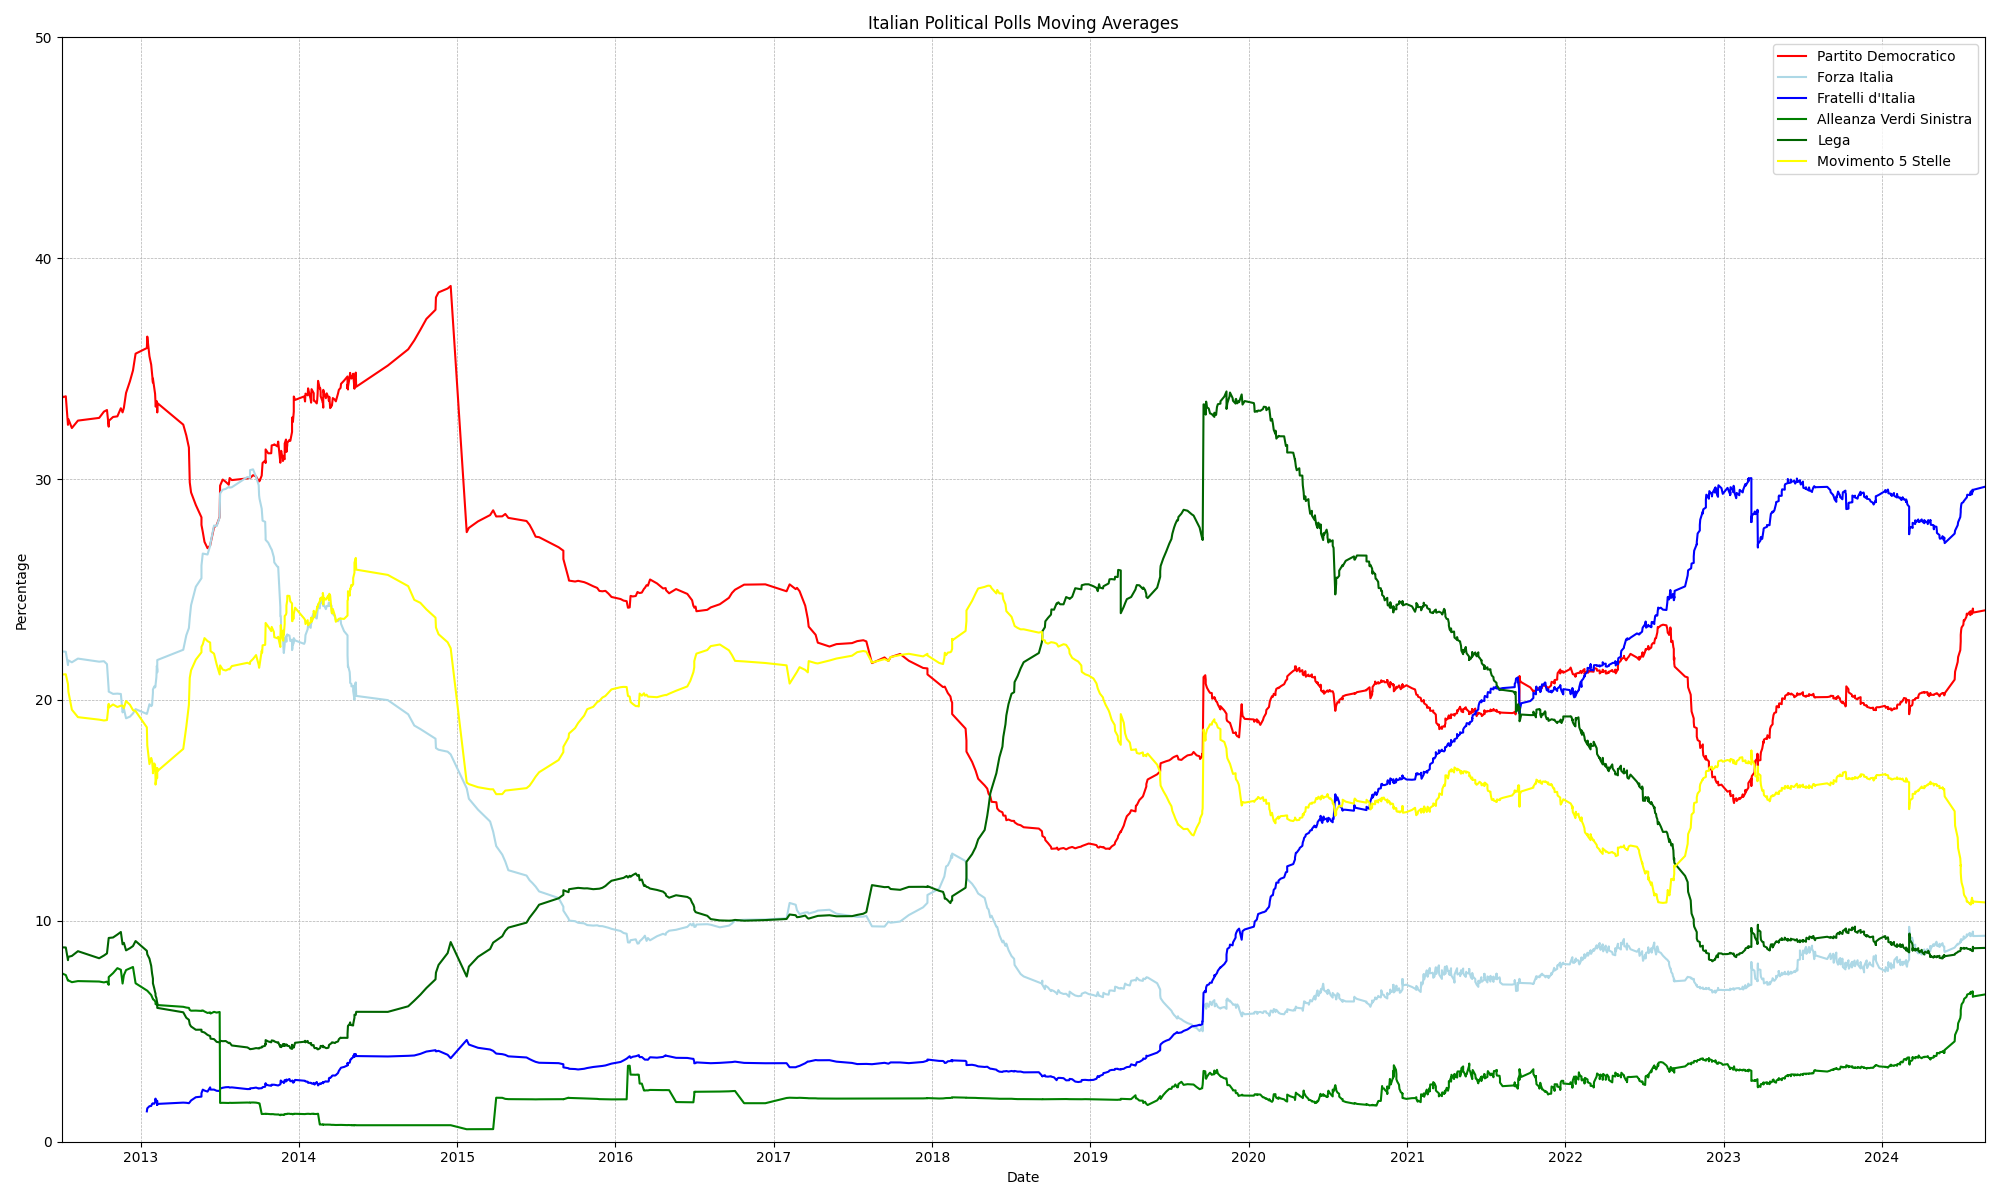
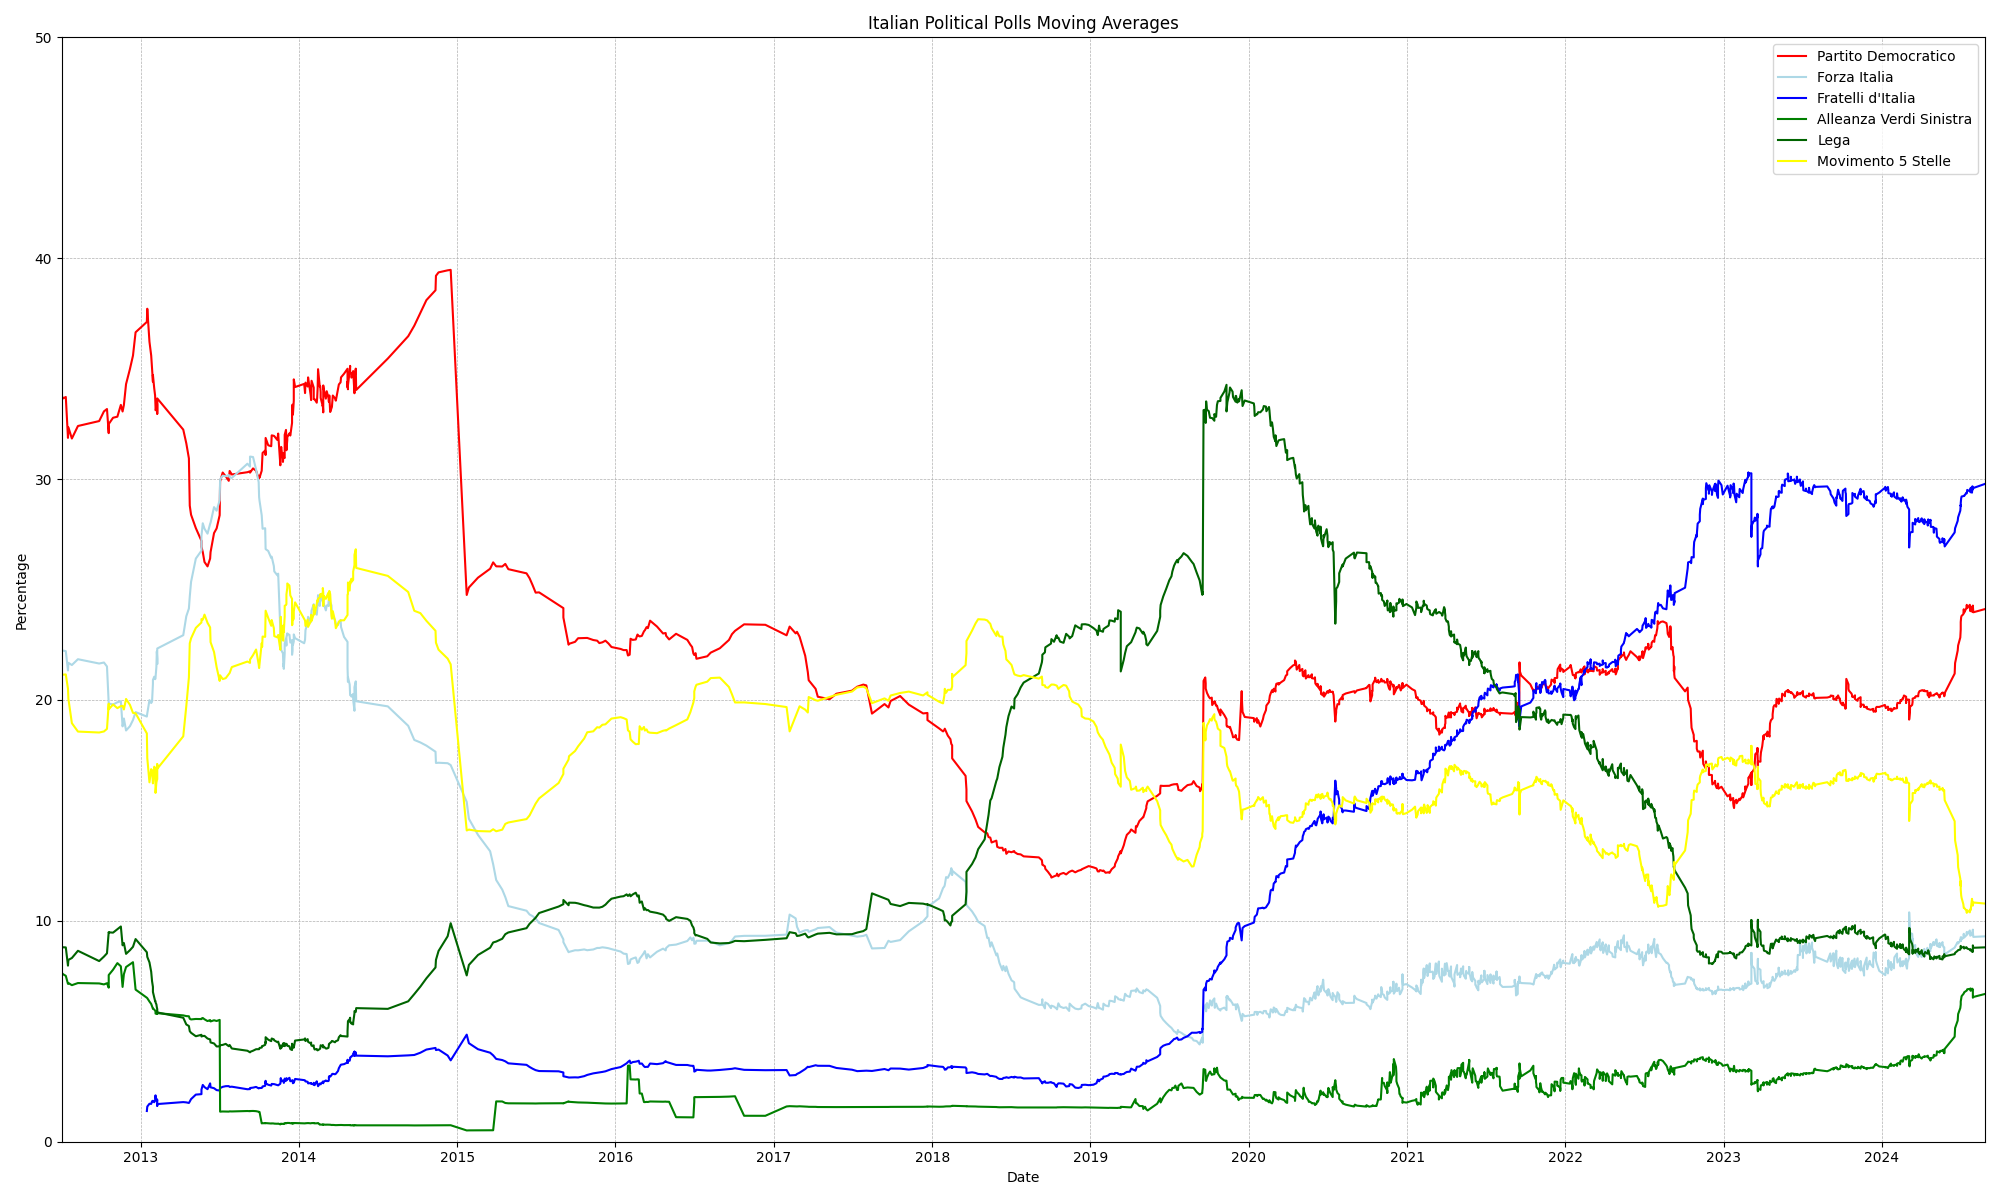
fixing the daily update

diff --git a/llm_poll_parser/daily_update.py b/llm_poll_parser/daily_update.py
@@ -1,6 +1,6 @@
 from website_getter import get_poll_data, get_prossima_pagina, start_driver, find_sondaggi_table
 from archiving_polls import handle_one_pagina
-from calculating_average import load_and_process_data, make_temporal_plot, calculate_moving_average
+from calculating_average import load_and_process_data, make_temporal_plot, calculate_moving_average, parties_list, party_colors
 import json, logging, time
 from typing import Union
 import json
@@ -97,13 +97,22 @@ def main():
     # get rid of everything in the last moving averages section
     start_index = readme.index("## Media di oggi\n")
     end_index = readme.index("## Grafico\n")
-    readme = readme[:start_index] + ["## Media di oggi\n", last_moving_average, "\n"] + readme[end_index:]
+    
+    string_to_use= ""
+    for party in parties_list:
+        string_to_use += f"{party}: {moving_averages[party].iloc[-1]:.2f}%\n"
+    # add the new moving averages
+    readme[start_index+2:end_index] = [string_to_use]
+    
+    logging.info("Substituted the old moving averages with the new ones")
     
     # write the new readme.md file
     with open("readme.md", "w") as file:
         file.writelines(readme)
+    logging.info("Added the new moving averages to the readme.md file")
     
-        
+    # make the temporal plot
+    make_temporal_plot(moving_averages, polls)
 
 if __name__ == "__main__":
     main()

diff --git a/llm_poll_parser/calculating_average.py b/llm_poll_parser/calculating_average.py
@@ -73,6 +73,8 @@ def calculate_moving_average(df, span=10):
     # Normalize to ensure sum is 100%
     normalized = ewm.div(ewm.sum(axis=1), axis=0) * 100
     
+    # order the columns by value in the last row
+    normalized = normalized[sorted(normalized.columns, key=lambda x: normalized[x].iloc[-1], reverse=True)]
     return normalized
 
 def make_temporal_plot(moving_averages, df, gaps=None):

diff --git a/readme.md b/readme.md
@@ -1,12 +1,7 @@
 ## Media di oggi
 
-
-
 ## Grafico
 ![Latest Moving Average](latest_average_plot.png)
-
-
-
 
 # Archiving Italian Political Polls
 
